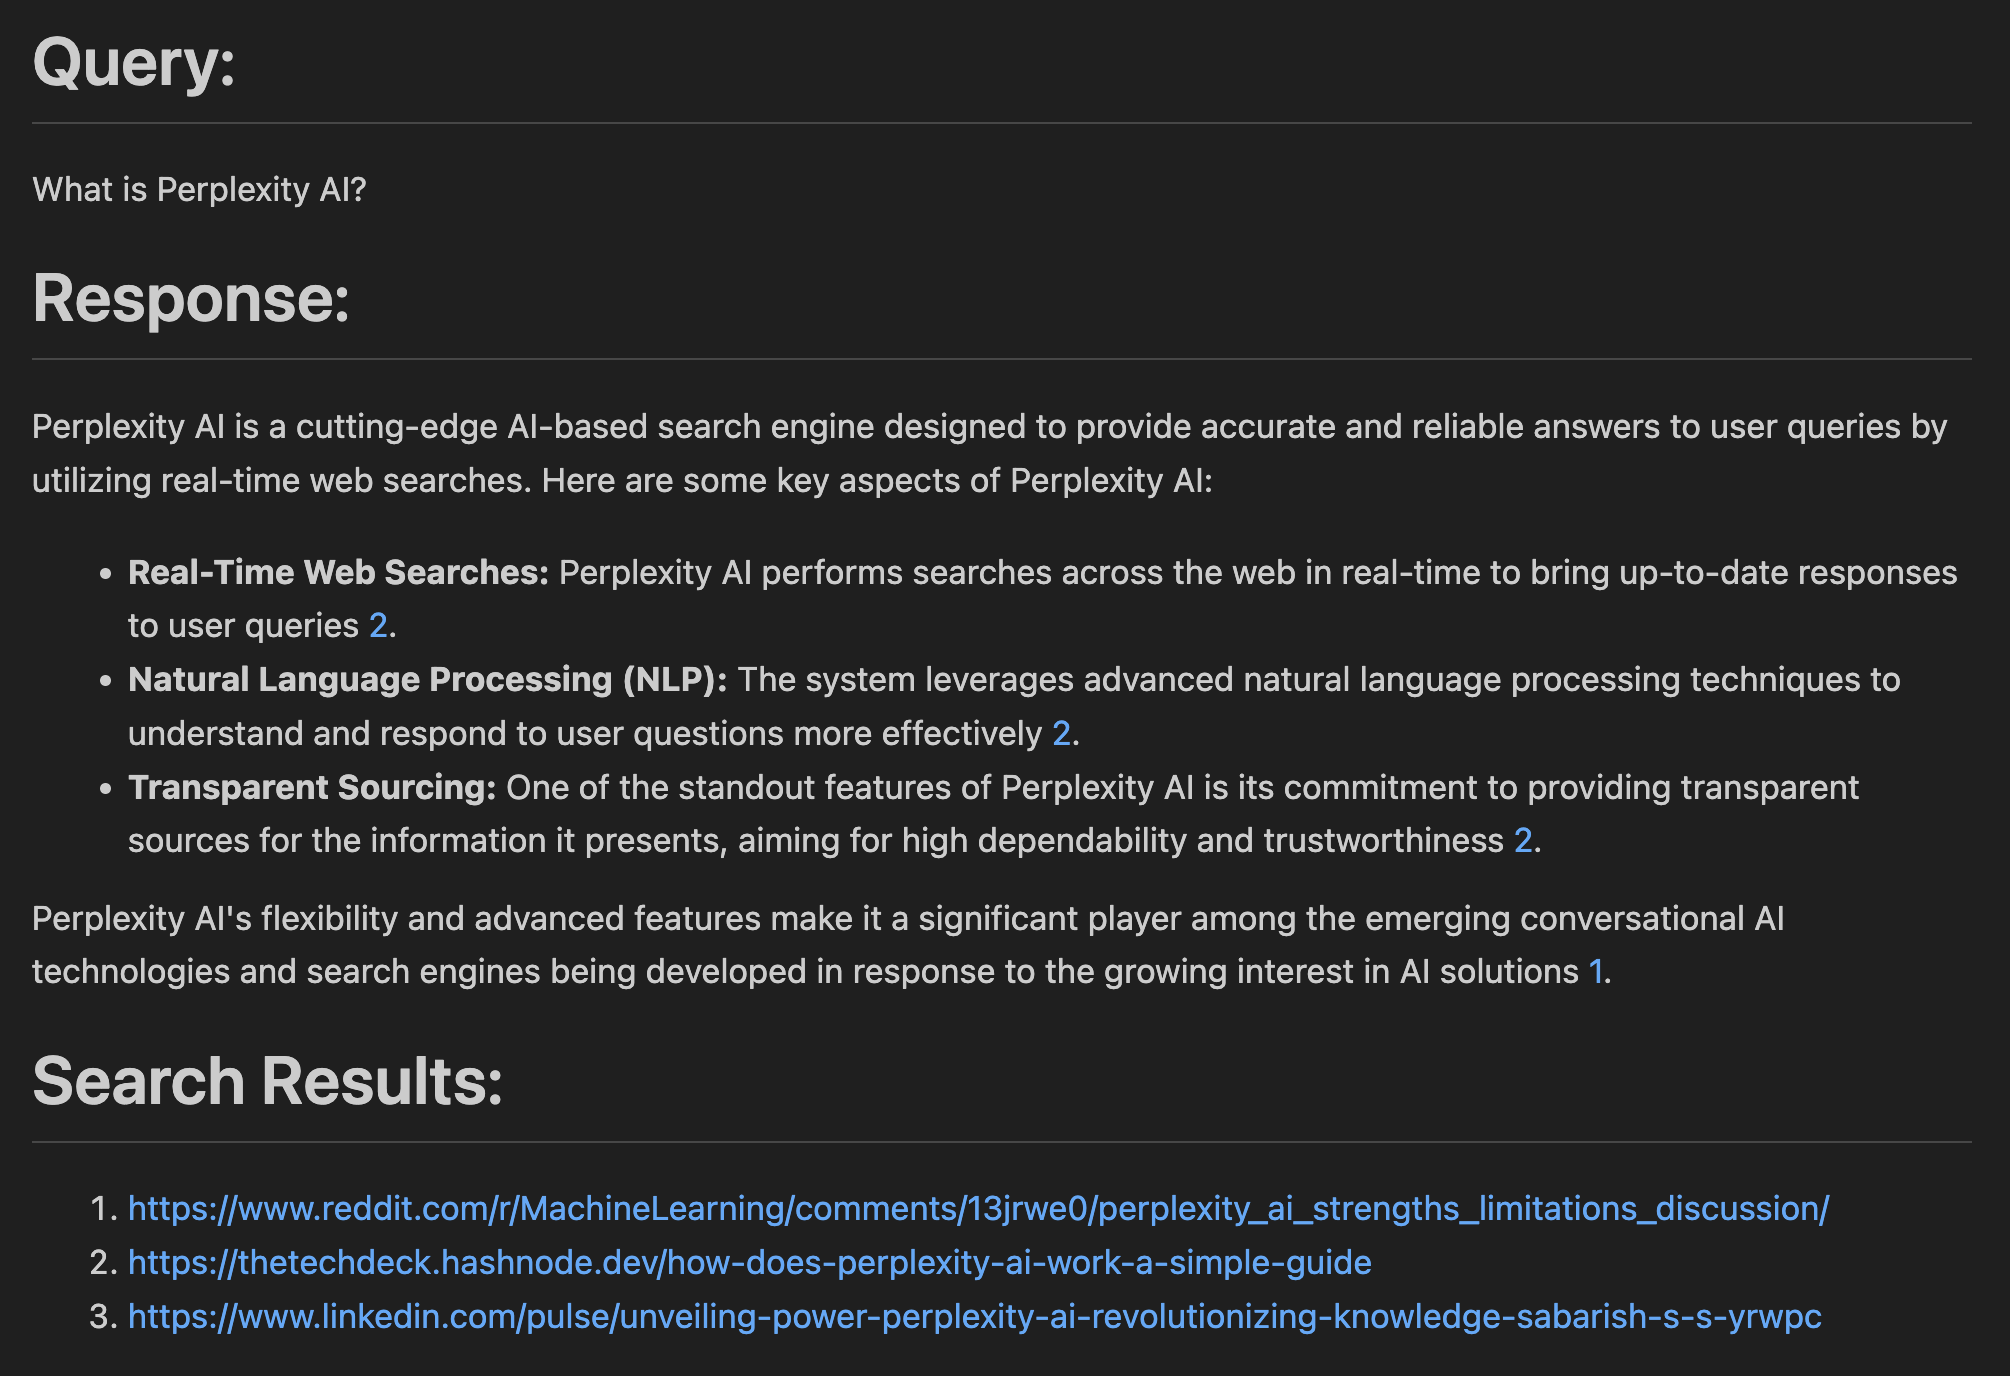
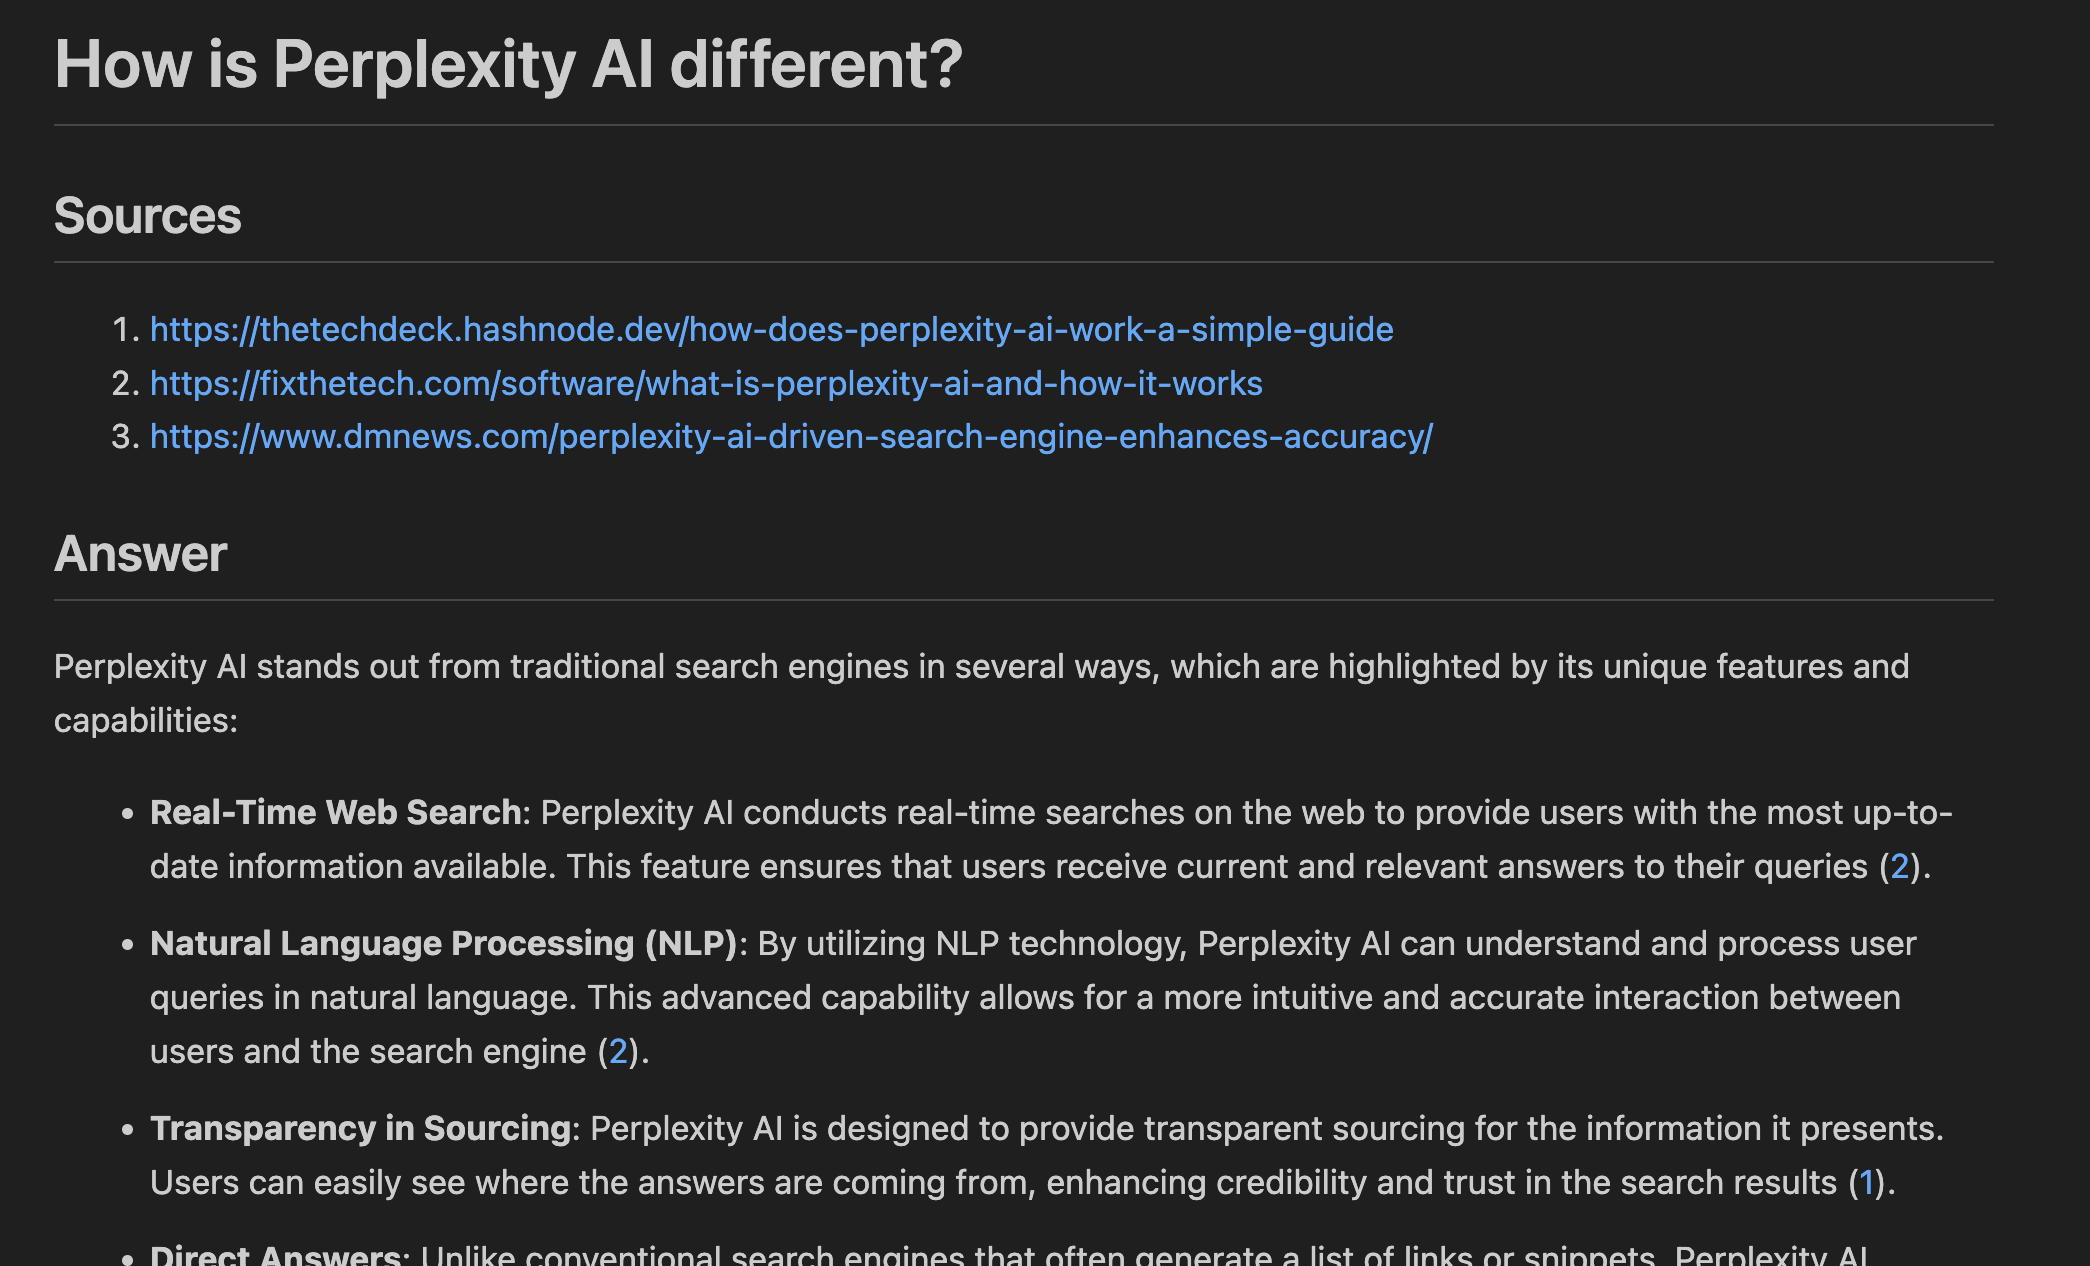
changed visualisation format to make it similar to perplexityAI

Changed region(s): [[0.0, 0.4005, 0.9871, 1.0], [0.0, 0.1232, 0.9562, 0.3697], [0.0, 0.0308, 0.4627, 0.0924]]

diff --git a/nanoPerplexityAI.py b/nanoPerplexityAI.py
@@ -123,9 +123,9 @@ def save_markdown(query, response, search_dic):
     response, citation_map = renumber_citations(response)
     links_block = generate_citation_links(citation_map, search_dic)
     output_content = (
-        f"# Query:\n{query}\n\n"
-        f"# Response:\n{response}\n\n"
-        f"# Sources:\n{links_block}"
+        f"# {query}\n\n"
+        f"## Sources\n{links_block}\n\n"
+        f"## Answer\n{response}" 
     )
     file_name = f"{query}.md"
     with open(file_name, "w") as file:

diff --git a/example_outputs/How is Perplexity AI different?.md b/example_outputs/How is Perplexity AI different?.md
@@ -1,24 +1,21 @@
-# Query:
-How is Perplexity AI different?
+# How is Perplexity AI different?
 
-# Response:
-Perplexity AI differentiates itself from other AI search tools and chatbots through several unique features and advancements:
+## Sources
+1. https://thetechdeck.hashnode.dev/how-does-perplexity-ai-work-a-simple-guide
+2. https://fixthetech.com/software/what-is-perplexity-ai-and-how-it-works
+3. https://www.dmnews.com/perplexity-ai-driven-search-engine-enhances-accuracy/
 
-- **Real-Time Web Search**: Unlike some traditional search engines and AI models, Perplexity AI provides real-time, accurate answers to user queries by actively searching the web. This allows it to offer up-to-date information and solutions [1](https://thetechdeck.hashnode.dev/how-does-perplexity-ai-work-a-simple-guide).
+## Answer
+Perplexity AI stands out from traditional search engines in several ways, which are highlighted by its unique features and capabilities:
 
-- **Natural Language Processing (NLP)**: Perplexity AI leverages advanced NLP to interpret and understand user queries more effectively. This results in more precise and relevant answers, enhancing the user experience by making searches more intuitive and informative [1](https://thetechdeck.hashnode.dev/how-does-perplexity-ai-work-a-simple-guide).
+- **Real-Time Web Search**: Perplexity AI conducts real-time searches on the web to provide users with the most up-to-date information available. This feature ensures that users receive current and relevant answers to their queries ([2](https://fixthetech.com/software/what-is-perplexity-ai-and-how-it-works)).
 
-- **Transparent Sourcing**: One of its standout features is transparent sourcing, where Perplexity AI provides clear references for the information it presents. This builds trust with users by allowing them to verify the origins of the data they receive [1](https://thetechdeck.hashnode.dev/how-does-perplexity-ai-work-a-simple-guide).
+- **Natural Language Processing (NLP)**: By utilizing NLP technology, Perplexity AI can understand and process user queries in natural language. This advanced capability allows for a more intuitive and accurate interaction between users and the search engine ([2](https://fixthetech.com/software/what-is-perplexity-ai-and-how-it-works)).
 
-- **Advanced Problem-Solving**: The recent updates to Perplexity AI, particularly in the Pro Search version, have significantly enhanced its problem-solving capabilities. This includes more advanced programming, math capabilities, and multi-step reasoning which allow it to handle complex queries more proficiently [2](https://www.zeniteq.com/blog/perplexity-ai-supercharged-pro-search-with-powerful-new-features).
+- **Transparency in Sourcing**: Perplexity AI is designed to provide transparent sourcing for the information it presents. Users can easily see where the answers are coming from, enhancing credibility and trust in the search results ([1](https://thetechdeck.hashnode.dev/how-does-perplexity-ai-work-a-simple-guide)).
 
-- **Comprehensive Search Results**: Perplexity AI doesn’t just stop at finding answers; it provides more in-depth and comprehensive search results. This ensures that users have access to extensive information and context for their queries [2](https://www.zeniteq.com/blog/perplexity-ai-supercharged-pro-search-with-powerful-new-features).
+- **Direct Answers**: Unlike conventional search engines that often generate a list of links or snippets, Perplexity AI focuses on delivering direct answers to user queries. This approach streamlines the search process and enhances user experience by providing precise information ([3](https://www.dmnews.com/perplexity-ai-driven-search-engine-enhances-accuracy/)).
 
-- **User Interface**: The tool acts as a robust search engine, where user queries are met with detailed answers that include displayed sources, ensuring transparency and reliability of the answers provided [3](https://www.pcguide.com/apps/perplexity-ai/).
+- **Efficiency**: Thanks to its sophisticated algorithms, Perplexity AI efficiently sifts through vast amounts of data to quickly retrieve and present accurate answers to user inquiries. This capability not only saves time but also ensures a user-centric search experience ([3](https://www.dmnews.com/perplexity-ai-driven-search-engine-enhances-accuracy/)).
 
-Overall, Perplexity AI sets itself apart by combining the power of real-time web search, advanced NLP, transparent sourcing, and comprehensive problem-solving capabilities to offer a reliable and user-friendly AI search experience.
-
-# Sources:
-1. https://em360tech.com/tech-article/perplexity-ai-vs-chatgpt
-2. https://thetechdeck.hashnode.dev/how-does-perplexity-ai-work-a-simple-guide
-3. https://www.zeniteq.com/blog/perplexity-ai-supercharged-pro-search-with-powerful-new-features
+In essence, Perplexity AI leverages cutting-edge technologies and innovative approaches to redefine how users interact with search engines, offering a more intuitive, reliable, and efficient search experience.

diff --git a/example_outputs/US housing market analysis by city 2024.md b/example_outputs/US housing market analysis by city 2024.md
@@ -1,0 +1,19 @@
+# US housing market analysis by city 2024
+
+## Sources
+1. https://www.usatoday.com/story/money/personalfinance/real-estate/2024/01/05/zillow-hottest-housing-markets-2024/72119594007/
+2. https://www.cbsnews.com/news/real-estate-forecast-2024-cities-with-biggest-price-gains/
+3. https://www.businessinsider.com/real-estate-housing-market-predictions-2024-cities-home-prices-falling-2024-1
+4. https://modernhb.com/news/navigating-the-2024-us-housing-market-trends-predictions-and-insights/
+5. https://explodingtopics.com/blog/real-estate-trends
+
+## Answer
+Based on the analysis for the 2024 US housing market by city from various sources, here is a summary of the key points:
+
+- **Buffalo, New York** is projected to be the hottest housing market of 2024, driven by affordability, strong employment, and a real shot at buying for young individuals as per Zillow's analysis [1](https://www.usatoday.com/story/money/personalfinance/real-estate/2024/01/05/zillow-hottest-housing-markets-2024/72119594007/).
+- In 2023, the real estate market was challenging for home buyers due to soaring mortgage rates over 8% and record high home prices. In 2024, buyers may still face challenges as home prices are expected to appreciate by 2% [2](https://www.cbsnews.com/news/real-estate-forecast-2024-cities-with-biggest-price-gains/).
+- Zillow predicts that home prices will decrease in 34 of the 50 largest US cities from November 2023 to November 2024, indicating a potential decrease in housing costs in various urban areas [3](https://www.businessinsider.com/real-estate-housing-market-predictions-2024-cities-home-prices-falling-2024-1).
+- The US housing market in 2024 is undergoing significant changes post-COVID, with fluctuating home prices, shifting rental dynamics, and various geopolitical and domestic influences shaping the landscape [4](https://modernhb.com/news/navigating-the-2024-us-housing-market-trends-predictions-and-insights/).
+- One of the major trends impacting the real estate industry in 2024 is a relocation from big cities to suburbs, along with increased demand for single-family homes and dwindling supply, leading to rising prices in that segment [5](https://explodingtopics.com/blog/real-estate-trends).
+
+These insights combined provide a broad overview of the 2024 US housing market analysis by city, showcasing varying trends and forecasts that are expected to shape the real estate landscape throughout the year.

diff --git a/example_outputs/What is the latest cooking trends on tiktok?.md b/example_outputs/What is the latest cooking trends on tiktok?.md
@@ -1,0 +1,20 @@
+# What is the latest cooking trends on tiktok?
+
+## Sources
+1. https://www.miragenews.com/winter-warmers-tiktok-food-trend-goes-viral-1027291/
+2. https://annetravelfoodie.com/tiktok-food-trends-of-2022/
+3. https://www.buzzfeed.com/claudiasantos/2023-viral-tiktok-recipes-food-trends
+4. https://www.theguardian.com/food/2023/oct/13/from-tanghulu-to-boy-dinner-tiktoks-hottest-autumn-food-trends
+
+## Answer
+The latest cooking trends on TikTok include a variety of exciting and popular food creations that have been gaining traction on the platform:
+
+- **Cosy Cooking:** TikTok's latest winter food trend, Cosy Cooking, features hearty and warming recipes such as beef casserole, sausage and mash, bolognese, and ramen. These dishes are perfect for the colder months and have garnered over 25 million views on the app so far [1](https://www.miragenews.com/winter-warmers-tiktok-food-trend-goes-viral-1027291).
+  
+- **Butter Board:** One of the standout food trends of 2022 on TikTok is the Butter Board. This trend involves spreading butter on a wooden serving board, creating an aesthetically pleasing and possibly delicious experience for the participants [2](https://annetravelfoodie.com/tiktok-food-trends-of-2022).
+
+- **Cottage Cheese Craze:** In 2023, the cottage cheese boom took TikTok by storm, becoming the top trend of the year with the trend "cottage cheese in everything." This craze saw a wide range of recipes incorporating cottage cheese from bread to ice cream to cookie dough, showcasing the versatility and popularity of this ingredient [3](https://www.buzzfeed.com/claudiasantos/2023-viral-tiktok-recipes-food-trends).
+
+- **Chopped Sandwiches:** Another trending food creation on TikTok includes chopped sandwiches, which are filled with a combination of ingredients similar to sandwich spread but with added elements like ham and cheese. This unique twist on traditional sandwiches has been catching the attention of viewers and food enthusiasts on the platform [4](https://www.theguardian.com/food/2023/oct/13/from-tanghulu-to-boy-dinner-tiktoks-hottest-autumn-food-trends).
+
+These trends showcase the diverse and creative food content that continues to captivate TikTok users and influence culinary enthusiasts around the world.

diff --git a/example_outputs/Can I fly with my pet?.md b/example_outputs/Can I fly with my pet?.md
@@ -1,0 +1,20 @@
+# Can I fly with my pet?
+
+## Sources
+1. https://www.ferndalekennels.com/en/blog/can-you-take-your-dog-on-a-plane-in-australia/
+2. https://petraveller.com.au/blog/domestic-air-travel-in-australia-with-your-pet
+3. https://www.flightcentre.com.au/flights/planning-your-flight/travelling-with-pets
+4. https://www.virginaustralia.com/au/en/travel-info/specific-travel/pets/
+
+## Answer
+Yes, you can fly with your pet in Australia. Here is some relevant information based on the context provided:
+
+- Each airline in Australia has its own rules and restrictions regarding transporting pets, so it is essential to check with the specific airline you plan to fly with regarding their policies ([1](https://www.ferndalekennels.com/en/blog/can-you-take-your-dog-on-a-plane-in-australia/)).
+  
+- Generally, for domestic air travel in Australia with your dog or cat, you can check your pet in as excess baggage. However, if you are not traveling on the same flight as your pet, you may need to enlist a pet relocation agent for domestic travel ([2](https://petraveller.com.au/blog/domestic-air-travel-in-australia-with-your-pet)).
+
+- Prior to traveling with your pet, it is important to take your furry friend to the vet for a check-up. Pets intending to travel by air need to be more than eight weeks old, appear to be in good health, and not show signs of undue aggression ([3](https://www.flightcentre.com.au/flights/planning-your-flight/travelling-with-pets)).
+
+- Virgin Australia is planning to introduce pet-friendly flights within the next 12 months. Small cats and dogs will be allowed on certain domestic routes, confined to designated rows and carriers under the seat ([4](https://www.virginaustralia.com/au/en/travel-info/specific-travel/pets/)).
+
+Remember, always contact the airline you plan to travel with for specific guidelines and requirements to ensure a smooth and safe journey for you and your pet.

diff --git a/README.md b/README.md
@@ -7,11 +7,11 @@ Please check out [this video(to be uploaded soon)]() for more explanations!
 ## Architecture
 
 1. Get the user query
-2. Search Google to find relevant webpage URLs and fetch texts
+2. Search Google to find relevant webpage URLs and fetch texts (In practice, [PerplexityAI searches its already indexed sources](https://www.perplexity.ai/hub/faq/how-does-perplexity-work))
 3. Use [rerank model(cross encoder)](https://www.sbert.net/examples/applications/retrieve_rerank/README.html) to find relevance scores for each search results
 4. Build a prompt using `system prompt + webpage context + user query`
-5. Call the LLM API to generate a response
-6. Format citations and save the LLM response into a markdown file to visualize it
+5. Call the LLM API to generate an answer
+6. Format citations and save the LLM answer into a markdown file to visualize it
 
 ## Install
 ```
@@ -24,17 +24,17 @@ export OPENAI_API_KEY=<Your OpenAI API KEY>
 python nanoPerplexityAI.py
 ```
 
-The script will prompt you to type your question, then it will generate a response in `response.md`
+The script will prompt you to type your question, then it will generate an answer in `.md`
 
-## View the LLM Responses:
-There are several ways to visualize the responses easily:
+## View the Answers from nanoPerplexityAI:
+There are several ways to visualize the answers easily:
 - Open in your editor, e.g., VScode
 - Open in [Markdown Playground](https://dotmd-editor.vercel.app/)
 - Push them to your github repo
 
-Check out the [responses](/example_outputs/) nanoPerplexityAI has already generated 
+Check out the [answers](/example_outputs/) nanoPerplexityAI has already generated 
 
-![Response](/assets/example_response.png)
+![answers](/assets/example_response.png)
 
 
 ## Acknowledgements

diff --git a/experiments/optimisation_notes.md b/experiments/optimisation_notes.md
@@ -10,5 +10,5 @@
 
 ## Accuracy Optimization
 
-- Utilize a rerank model. If the text exceeds your memory size, the model runs inference multiple times, which can be time-consuming. Adjust parameters to avoid this.
+- Utilize a rerank model to find most relevant sources to feed into LLM context. If the text exceeds your memory size, the rerank model runs inference multiple times, which can be time-consuming. Adjust parameters to avoid this.
 - Prompt engineering
